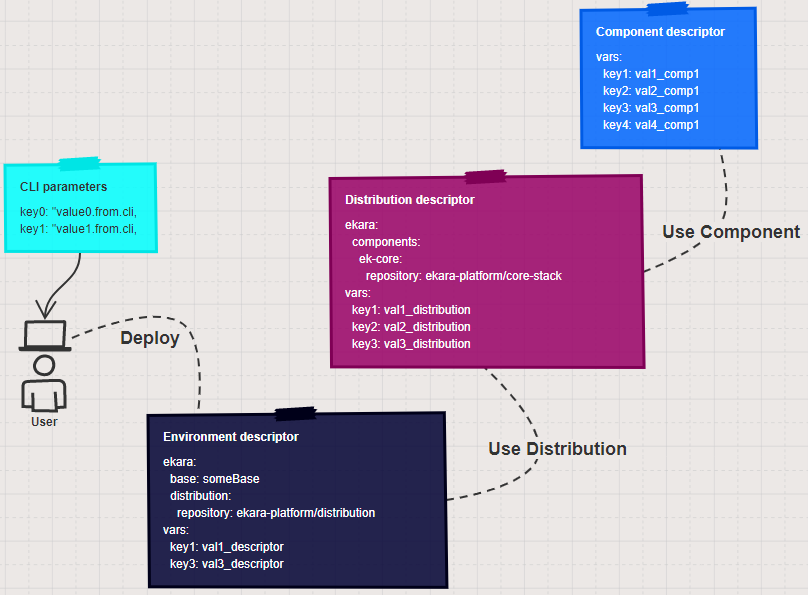
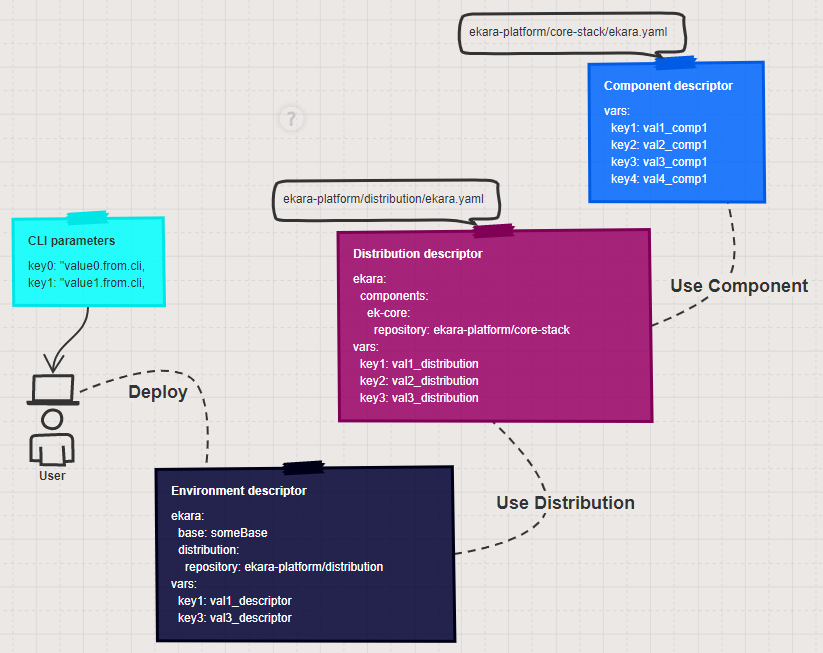
Added parsing sequence

diff --git a/content/reference/templating.md b/content/reference/templating.md
@@ -23,7 +23,7 @@ In Ekara we distinguish two kind of templates:
 
 ## Data structure
 
-Into a template th top most variable of the data structure is access by `{{.}}`.
+Into a template the top most variable of the data structure is access by `{{.}}`.
 
 This means that all template annotations should start with a dot `.`
 
@@ -43,7 +43,7 @@ To be done
 
 #### `.Vars` 
 
-The `.Vars` section of the structure contains the accumulation of all the `Vars` defined in all descriptors and also the `param-file` (See [**param-file**]({{< ref "param.md" >}}))  given at runtime for example by the CLI or the running environment itself. 
+The `.Vars` section of the structure contains the accumulation of all the `Vars` defined in all descriptors and also the `param-file` given at runtime for example by the CLI or the running environment itself. See [**here**]({{< ref "descriptor.md#vars" >}}) the detail about how `Vars` are accumulated and eventually overwritten based on their precedence.
 
 Example :
 
@@ -97,12 +97,18 @@ To be done
 
 ## Template in descriptors
 
-Both **environment** or **component** descriptors are automatically process as templates.
+Both **environment** or **component** descriptors are automatically process as templates. 
 
-To be done
+### Content available in templated descriptors
+
+Because descriptors are processed sequentially at runtime they can only access to the `.Vars` previously parsed and processed.
+
+The example bellow shows how descriptors are sequentially processed and which `.Vars` are accessible by which descriptor. 
+![Example image](/img/sequence.png)
 
 - Dependency on the structure life cycle.
 
+### Content not available in templated descriptors
 
 ## Template in components
 

diff --git a/content/reference/descriptor.md b/content/reference/descriptor.md
@@ -4,9 +4,12 @@ title: Environment descriptor
 
 The Ekara descriptor is a YAML document fully describing an environment:
 
-* The **nodes** constituting the environment,
+* The **platform** TO BE DONE,
+* The **variables** TO BE DONE,
+* The **templates** TO BE DONE,
 * The **providers** where nodes will be provisioned,
 * The **orchestrator** that will manage the cluster of nodes,
+* The **nodes** constituting the environment,
 * The **stacks** to deploy on the cluster,
 * The **tasks** that can be run on nodes. 
 
@@ -196,7 +199,7 @@ vars:
 #### Vars accumlation
 The variables used in templates are the accumulation of all the `vars` defined in all descriptors
 
-The example bellow show an **Environment descriptor** and two **Component Descriptors** defining variables. 
+The example below shows an **Environment descriptor** and two **Component Descriptors** defining variables. 
 ![Example image](/img/precedence.png)
 
 Based on this the variables usable into the templates will be: *key1*, *key2*, *key3* and *key4*

diff --git a/content/reference/param.md b/content/reference/param.md
@@ -2,13 +2,12 @@
 title: Parameters File
 ---
 
-Some CLI commands accept the flag `-p, --param` to specify a **yaml** file used to pass parameters which will be interpreted at runtime to substitute variables into the environment descriptor.
+Some CLI commands accept the flag `-p, --param` to specify a **yaml** file used to pass parameters which will be interpreted at runtime to substitute variables into the templates.
 
-The parameters file is used associated to a templating mechanism to modify the environment descriptor at runtime.
 
 ## Variables definition
 
-The variables to substitute can be define anywhere into the environment descriptor using the following syntax:
+The variables to substitute can be define anywhere into the environment or component descriptors using the following syntax:
 
 ```yaml
 {{ .Vars.key }}
